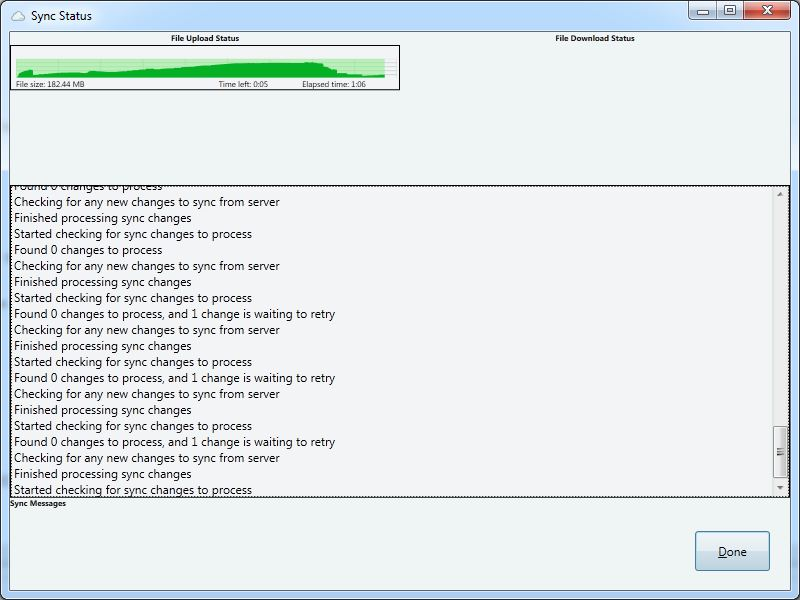
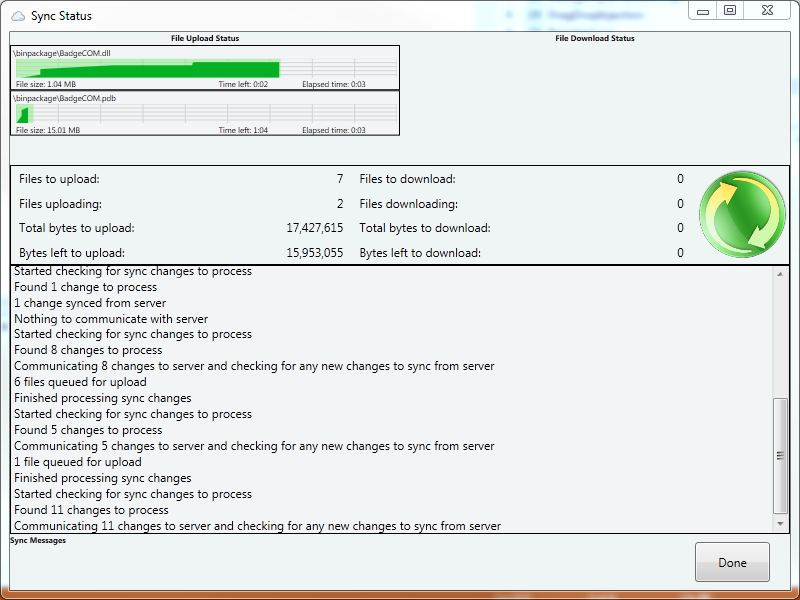
Updated MainPage.dox for documentation, cleaned up cloudstaging urls in CLDefinitions, updated jpg of status window image for documentation

Changed region(s): [[0.0, 0.27, 1.0, 1.0], [0.0, 0.0, 1.0, 0.24], [0.3438, 0.27, 0.625, 0.39]]

diff --git a/CloudApiPublic/Model/CLDefinitions.cs b/CloudApiPublic/Model/CLDefinitions.cs
@@ -6,7 +6,8 @@
 //  Copyright (c) Cloud.com. All rights reserved.
 
 //#define PRODUCTION_BACKEND 
-#define CLIFF_SERVERS
+//#define CLIFF_SERVERS
+#define STAGING
 
 // Merged 7/3/12
 namespace CloudApiPublic.Model
@@ -55,38 +56,60 @@ namespace CloudApiPublic.Model
         //// Current registration is no longer done with username/password
         ////
         //// Registration
-        //public const string CLRegistrationCreateRequestURLString = HttpPrefix + "auth.cloudstaging.us/user/create.json";
         //public const string CLRegistrationCreateRequestURLString = HttpPrefix + "auth.cliff.cloudburrito.com/user/create.json";
         //public const string CLRegistrationCreateRequestBodyString = "{{\"user\":{{\"first_name\":{0},\"last_name\":{1},\"email\":{2},\"password\":{3}}}," +
         //                                                            "\"device\":{{\"friendly_name\":{4},\"device_uuid\":{5},\"os_type\":{6},\"os_platform\":{7}," +
         //                                                            "\"os_version\":{8},\"app_version\":{9}}},\"client_id\":{10},\"client_secret\":{11}}}";
 
         //// Link/Unlink
-        //public const string CLRegistrationUnlinkRequestURLString = HttpPrefix + "auth.cloudstaging.us/device/unlink.json";
         //public const string CLRegistrationUnlinkRequestURLString = HttpPrefix + "auth.cliff.cloudburrito.com/device/unlink.json";
         //public const string CLRegistrationUnlinkRequestBodyString = CLRegistrationAccessTokenKey + "={0}";
 
-        //public const string CLRegistrationLinkRequestURLString = HttpPrefix + "auth.cloudstaging.us/device/link.json";
         //public const string CLRegistrationLinkRequestURLString = HttpPrefix + "auth.cliff.cloudburrito.com/device/link.json";
         //public const string CLRegistrationLinkRequestBodyString = "{{\"email\":{0},\"password\":{1},\"device\":{{\"friendly_name\":{2},\"device_uuid\":{3}," +
         //                                                             "\"os_type\":{4},\"os_platform\":{5},\"os_version\":{6},\"app_version\":{7}}}," +
         //                                                             "\"client_id\":{8},\"client_secret\":{9}}}";
 
         // Platform Auth
+        public const string CLPlatformAuthServerURL = HttpPrefix + @"platform.cliff.cloudburrito.com";
+
+        // Meta Data
+        public const string CLMetaDataServerURL = HttpPrefix + @"mds.cliff.cloudburrito.com";
+
+        // Notifications
+        public const string CLNotificationServerURL = @"ws://push.cliff.cloudburrito.com";
+
+        // Upload/Download Server
+        public const string CLUploadDownloadServerURL = HttpPrefix + @"upd.cliff.cloudburrito.com";
+#elif STAGING
+        //// Current registration is no longer done with username/password
+        ////
+        //// Registration
+        //public const string CLRegistrationCreateRequestURLString = HttpPrefix + "auth.cloudstaging.us/user/create.json";
+        //public const string CLRegistrationCreateRequestBodyString = "{{\"user\":{{\"first_name\":{0},\"last_name\":{1},\"email\":{2},\"password\":{3}}}," +
+        //                                                            "\"device\":{{\"friendly_name\":{4},\"device_uuid\":{5},\"os_type\":{6},\"os_platform\":{7}," +
+        //                                                            "\"os_version\":{8},\"app_version\":{9}}},\"client_id\":{10},\"client_secret\":{11}}}";
+
+        //// Link/Unlink
+        //public const string CLRegistrationUnlinkRequestURLString = HttpPrefix + "auth.cloudstaging.us/device/unlink.json";
+        //public const string CLRegistrationUnlinkRequestBodyString = CLRegistrationAccessTokenKey + "={0}";
+
+        //public const string CLRegistrationLinkRequestURLString = HttpPrefix + "auth.cloudstaging.us/device/link.json";
+        //public const string CLRegistrationLinkRequestBodyString = "{{\"email\":{0},\"password\":{1},\"device\":{{\"friendly_name\":{2},\"device_uuid\":{3}," +
+        //                                                             "\"os_type\":{4},\"os_platform\":{5},\"os_version\":{6},\"app_version\":{7}}}," +
+        //                                                             "\"client_id\":{8},\"client_secret\":{9}}}";
+
+        // Platform Auth
         public const string CLPlatformAuthServerURL = HttpPrefix + @"platform.cloudstaging.us";
-        //public const string CLPlatformAuthServerURL = HttpPrefix + @"platform.cliff.cloudburrito.com";
 
         // Meta Data
         public const string CLMetaDataServerURL = HttpPrefix + @"mds.cloudstaging.us";
-        //public const string CLMetaDataServerURL = HttpPrefix + @"mds.cliff.cloudburrito.com";
 
         // Notifications
         public const string CLNotificationServerURL = @"ws://push.cloudstaging.us";
-        //public const string CLNotificationServerURL = @"ws://push.cliff.cloudburrito.com";
 
         // Upload/Download Server
         public const string CLUploadDownloadServerURL = HttpPrefix + @"upd.cloudstaging.us";
-        //public const string CLUploadDownloadServerURL = HttpPrefix + @"upd.cliff.cloudburrito.com";
 #else   // !CLIFF_SERVERS
         // Registration
         public const string CLRegistrationCreateRequestURLString = HttpPrefix + "auth-edge.cloudburrito.com/user/create.json";
@@ -118,7 +141,7 @@ namespace CloudApiPublic.Model
         public const string CLTwitterPageUrl = "http://twitter.com/clouddotcom";
 
         // Method Path
-#if CLIFF_SERVERS
+#if CLIFF_SERVERS || PRODUCTION_BACKEND || STAGING
         public const string MethodPathSyncFrom = "/1/sync/from_cloud";                       // POST
         public const string MethodPathDownload = "/1/get_file";                              // POST
         public const string MethodPathUpload = "/1/put_file";                                // POST
